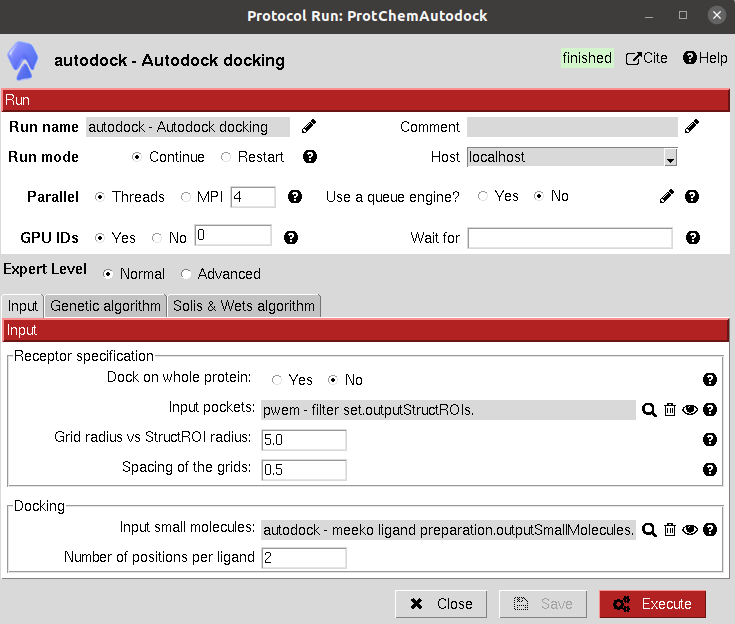
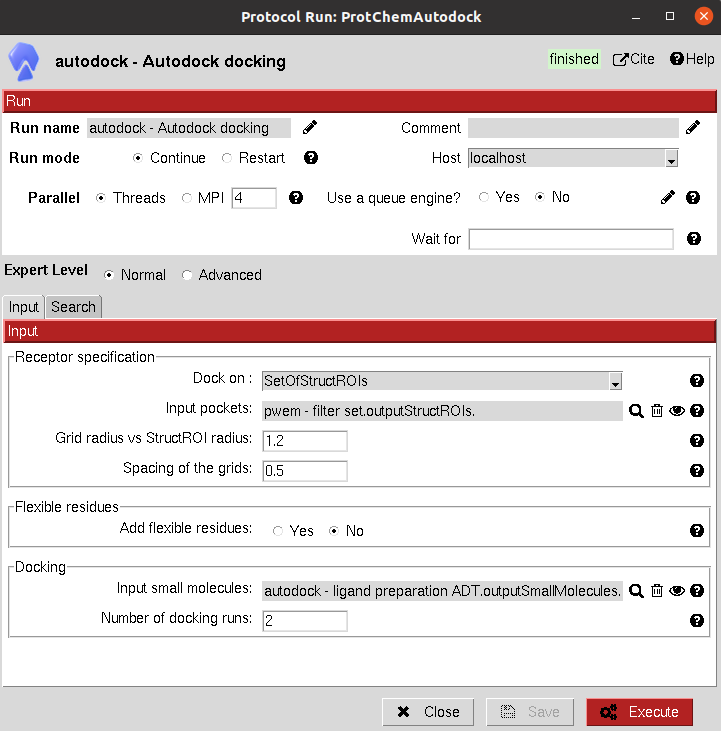
.

diff --git a/plugins/chem-autodock.rst b/plugins/chem-autodock.rst
@@ -182,21 +182,36 @@ The included protocols are:
 
 1) `AutoDock4: <https://autodock.scripps.edu/download-autodock4/>`_ It uses AutoDock4 tool to predict the binding poses for a set of small molecules over the receptor.
 
+|form4_1| |form4_11|
+
 2) `AutoDock-GPU: <https://github.com/ccsb-scripps/AutoDock-GPU>`_ It uses the GPU implementation of AutoDock, which is several times faster and includes many bug fixes and new features. It actually includes different parameters than AutoDock4, so it has been moved to a new protocol.
+
+|form4_2| |form4_22|
 
 3) `AutoDock Vina: <https://vina.scripps.edu/>`_ It uses the Vina docking engine to predict the binding poses for a set of small molecules over the receptor.
 
+ |form4_3|
 
 |
-
-|form4_1| |form4_2|
 
 .. |form4_1| image:: ../images/autodock_form4_1.png
    :alt: autodock form4_1
    :height: 420
 
+.. |form4_11| image:: ../images/autodock_form4_11.png
+   :alt: autodock form4_11
+   :height: 420
+
 .. |form4_2| image:: ../images/autodock_form4_2.png
    :alt: autodock form4_2
+   :height: 420
+
+.. |form4_22| image:: ../images/autodock_form4_22.png
+   :alt: autodock form4_22
+   :height: 420
+
+.. |form4_3| image:: ../images/autodock_form4_3.png
+   :alt: autodock form4_3
    :height: 420
 
 |
